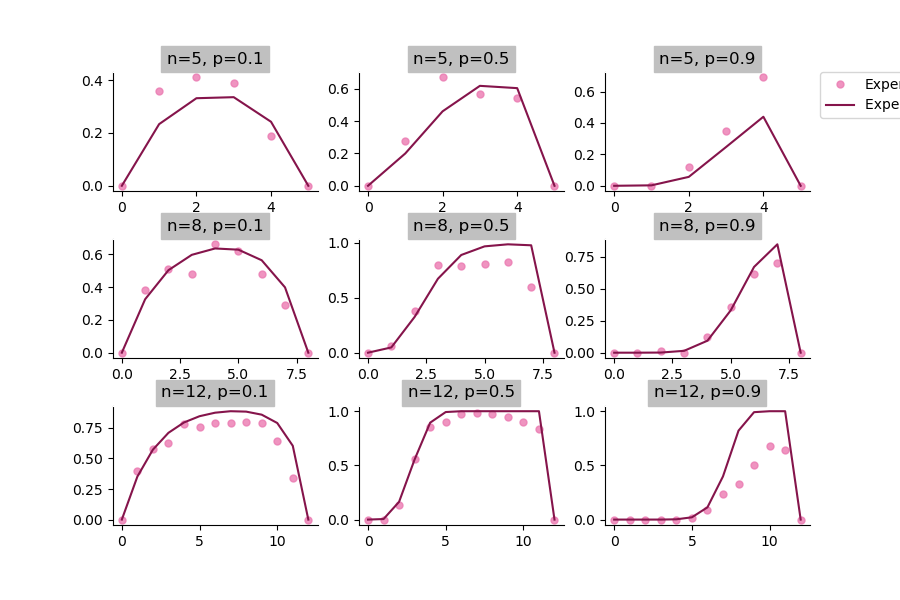
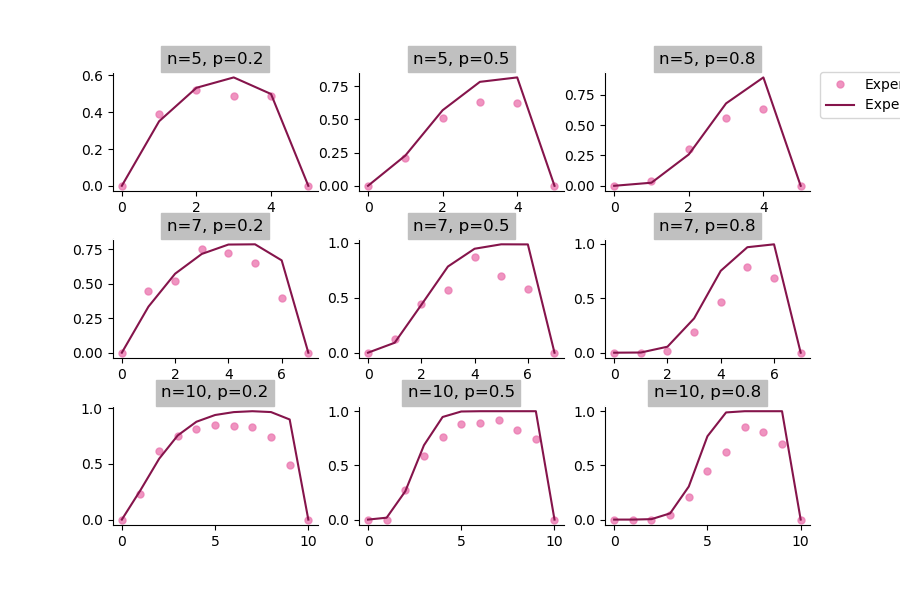
python

diff --git a/Python/v1/rigidtyProbabilities.py b/Python/v1/rigidtyProbabilities.py
@@ -113,7 +113,7 @@ def cotaAnyone(n,p,m):
     Returns the probaility that in a ER graph G a set of size k uniquely deter-
     minates the last vertex.
     """
-    return (n-m) * p**(m) * (1-p**m)**(n-m-1)
+    return 1- (1 - cotaLast(n,p,m))**(n-m)
 
 """
 3. Funciones para determinar si un conjunto de tamaño m puede expandirse
@@ -167,15 +167,18 @@ def cotaExpansion(n,p,k):
     if k==0:
         return 0
     else:
+        #Probability that none of the vertex outside of A_k is u.d by B_m 
+        # a subset of A_k
+        rho = [(1-cotaLast(n,p,m))**(n-k) for m in range(1,k+1)]
         
-        rho = [(n-k)/n * cotaAnyone(n,p,m) for m in range(1,k+1)]
-        
-        exp =[1-(1-rho[m-1])**comb(k,m,exact=True) for m in range(1,k+1)]
+        #Probability that none of the posible subsets of size m expand outside 
+        #of A_k
+        exp =[(rho[m-1])**comb(k,m) for m in range(1,k+1)]
         
         prod=1
         
         for e in exp:
-            prod = prod*(1-e)
+            prod = prod*e
  
         return 1-prod
 
@@ -307,7 +310,7 @@ if __name__ == "__main__":
     # 2. Any vertex
     # 3. Expansion
     """
-    N=[5,8,12]
-    P=[0.1,0.5,0.9]
+    N=[5,7,10]
+    P=[0.2,0.5,0.8]
     #setOfExperiments(N,P,1)
     setOfExperiments(N,P,3)
